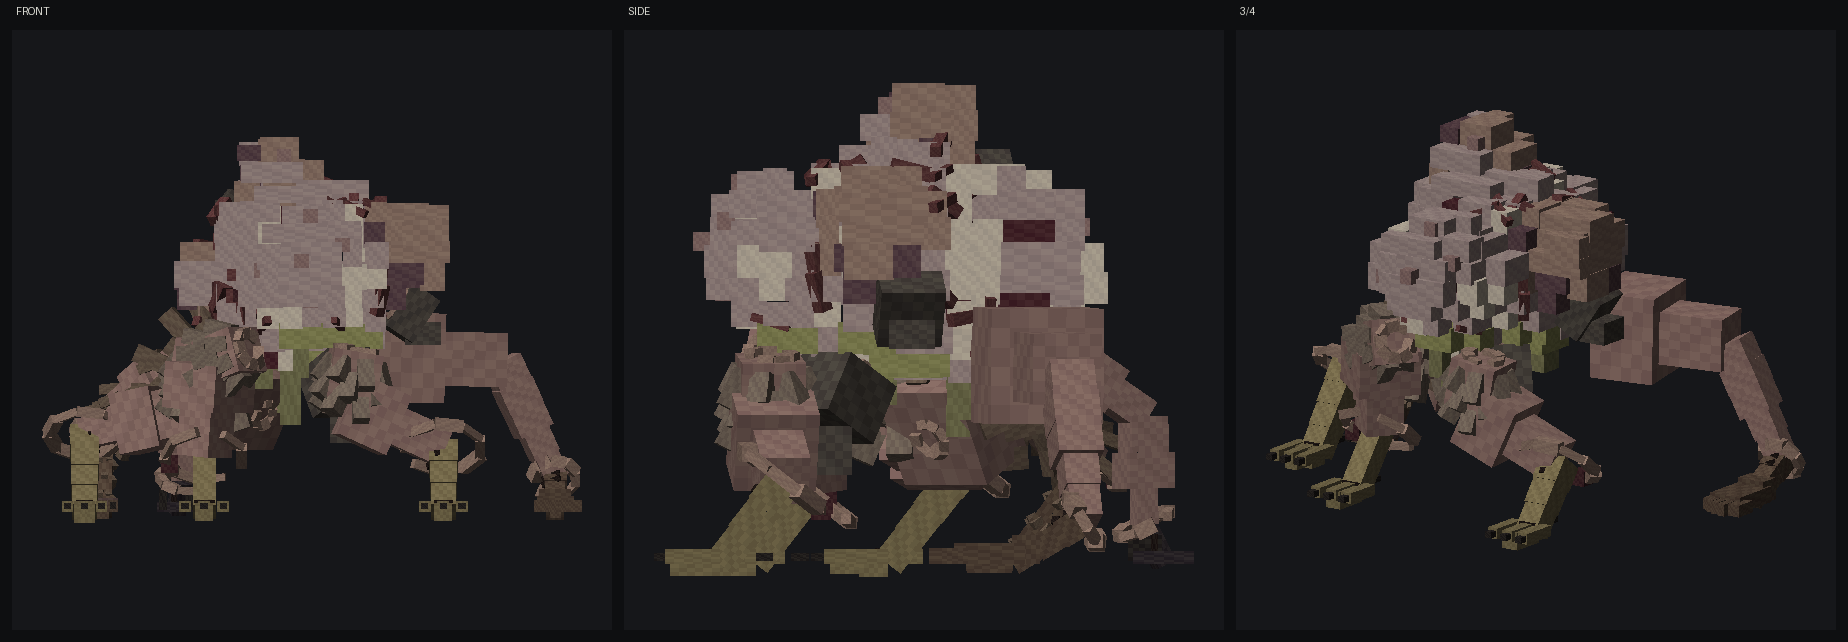
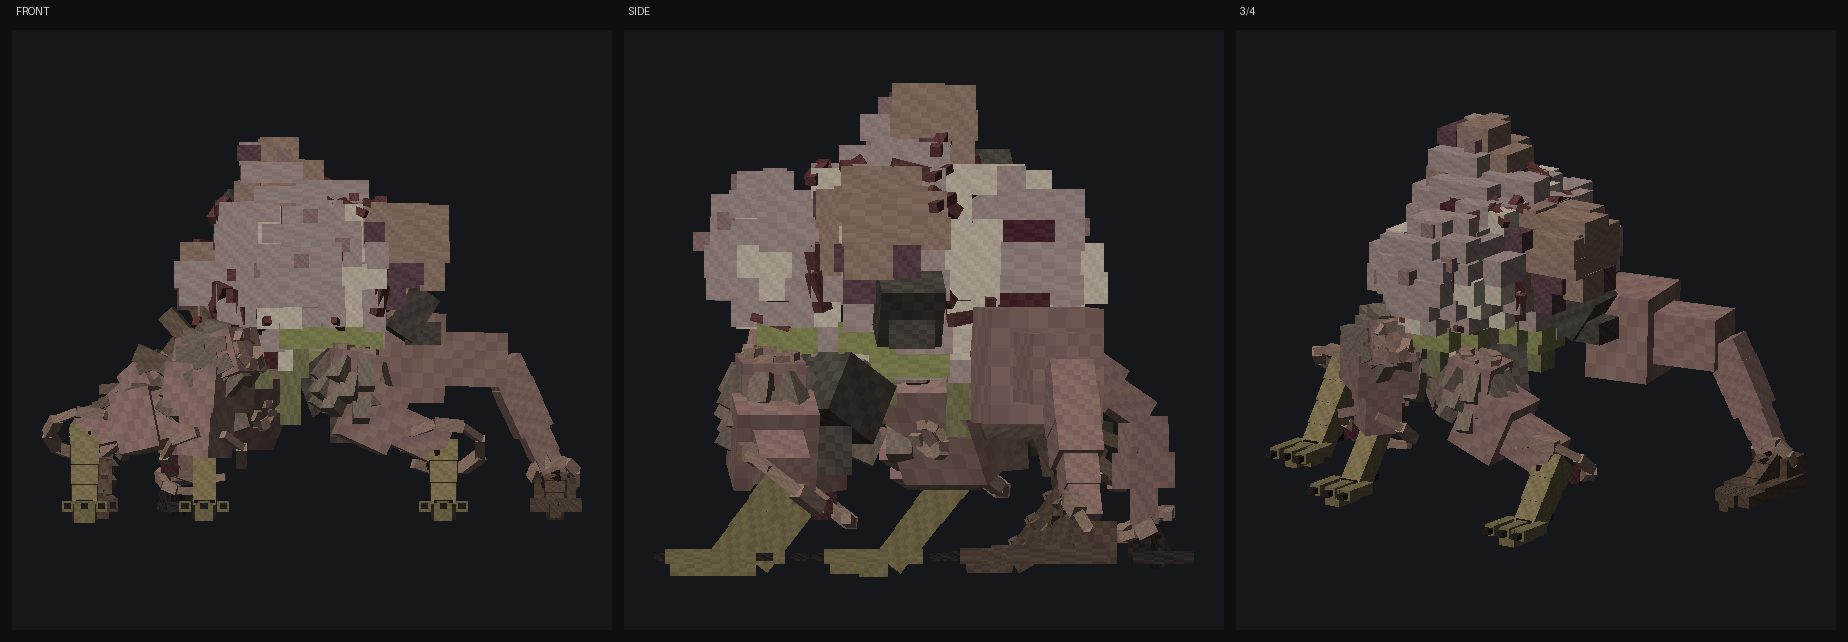
异变缝合兽：人足的跟找回来了——整只脚原本画在踝的前面
用户看 bbmodel 直接指出腿骨位置不对。量了一下确实是硬错：链上只有 [踝, 跖球, 趾尖]，
渲染又把 j[-2]（其实是跖球）当成跟来用，于是脚底从跖球起步一路铺到趾尖之外。那条腿
踝的地面投影在 z=+1.75、地面反力作用点在 z=0，而画出来的脚底是 −2.95…−7.55——连受力
点都没盖住，看上去像用前脚掌的位置支着一根杆。

跟不在链上是对的：跟骨和掌骨是**同一块刚体**，不是一节，硬塞进链里会多出一个假关节。
所以另开 foot_heel() 单独取回来（跖行专有，其余站姿返回 None），渲染补两件：

· 跟到跖球的整片脚底，长由解剖定、宽取"解剖宽"与"压强要求的宽"的大者
· 踝正下方的跗骨块——没有它，踝和脚底之间隔着一段空的，腿像插在脚上不是站在脚上

五趾也跟着改成从跖球往前长到趾尖那个关节（原来按 pad 长度算，只伸出去一半）。修完踝
落在跟→跖球的 25% 处，真人也是这个位置。

自检加 ⑬ 跖行的脚必须托住踝（踝的地面投影落在跟与跖球之间）——"跖行"这个词的定义就是
整片脚底承重、踝压在脚底上方。12 只兽十三项全过（547–722 块），check_limbs 九项全过。

单件复看用 renders/beast/render_HumanLeg_three_view.png：并排的腿谱里两条跖行腿在侧视
会叠在一起，看不出脚的剖面——这类错只有单件三视图才露得出来。

Model: claude-opus-5

diff --git a/scripts/models/stitched_beast/gen_beast.py b/scripts/models/stitched_beast/gen_beast.py
@@ -146,25 +146,39 @@ def part_foot(rig: Rig, lb: LB.Limb) -> int:
             box(bone, "claw", c + np.array([0.0, 0.0, -run * 0.55]),
                 (hw * 0.16, 0.35, run * 0.22), "claw")
     elif sk.foot == "human":
-        # 人足：整片脚底 + 向后支出来的脚跟 + **五枚趾，拇趾最粗、往小趾递减**。
+        # 人足：**跟 → 跖球 一整片贴地的脚底** + 托住踝的跗骨块 + 五枚趾。
         #
-        # "我好像没看见人腿"——它一直在（seed 5 的左后腿就是），只是读不出来。这个
-        # 尺度上人腿的辨识全在脚上：跟骨支出去那一块 + 五枚不等长的趾。三枚等大的趾
-        # 是"某种爪"，五枚递减的趾才是人。趾长按真实比例递减（拇趾最粗但不最长，
-        # 第二趾最长），这几个数是量的不是编的。
-        heel, sole = j[-2], j[-1]
-        mid = 0.5 * (heel + sole)
-        run = max(float(np.linalg.norm((sole - heel)[[0, 2]])), 1.0)
-        box(bone, "sole", (mid[0], 0.8, mid[2]), (hw * 0.72, 0.8, run * 0.5 + hl * 0.3),
-            "hide")
-        box(prev, "heel", (heel[0], 1.1, heel[2] + run * 0.28),
-            (hw * 0.62, 1.1, run * 0.30), "hide")
-        # (横向位置, 趾粗, 趾长)：拇趾在内侧最粗，第二趾最长
-        for off, wide, long in ((-0.78, 0.26, 0.34), (-0.32, 0.17, 0.42),
-                                (0.06, 0.16, 0.38), (0.40, 0.15, 0.32),
-                                (0.70, 0.13, 0.25)):
-            box(bone, "toe", (sole[0] + off * hw, 0.6, sole[2] - hl * long),
-                (hw * wide, 0.6, hl * long * 1.15), "hide")
+        # 上一版把整只脚画在了踝的**前面**：链上只有 [踝, 跖球, 趾尖]，没有跟，代码
+        # 又把 `j[-2]` 当成跟来用，于是脚底从跖球起步、一路铺到趾尖之外。实测那条腿
+        # 踝的地面投影在 z=+1.75、地面反力作用点在 z=0，而画出来的脚底是 −2.95…−7.55
+        # ——连受力点都没盖住，看上去像"用前脚掌的位置支着一根杆"。跟不在链上是对的
+        # （跟骨和掌骨是同一块刚体，不是一节），但渲染必须另外把它取回来。
+        ankle, ball, tip = j[-3], j[-2], j[-1]
+        heel = lb.heel if lb.heel is not None else ball
+        fwd = (ball - heel) * np.array([1.0, 0.0, 1.0])
+        run = max(float(np.linalg.norm(fwd)), 1.0)
+        u = fwd / run
+        # 脚底的**长**由解剖定（跟到跖球），**宽**取"解剖宽"与"压强要求的宽"中的大者
+        # ——人足本来就比踩住所需的面积大，多出来的那部分只是压强更低而已。
+        wide = max(hw, run * 0.19)
+        mid = 0.5 * (heel + ball)
+        box(bone, "sole", (mid[0], 0.7, mid[2]), (wide, 0.7, run * 0.5), "hide")
+        # 跗骨块：踝正下方那一坨，把胫骨接到脚底上。没有它，踝和脚底之间隔着一段空的，
+        # 整条腿看着像插在脚上而不是站在脚上。
+        back = 0.5 * (heel + ankle)
+        top = max(float(ankle[1]), 1.4)
+        box(prev, "tarsal", (back[0], top * 0.5, back[2]),
+            (wide * 0.82, top * 0.5,
+             float(np.linalg.norm((ankle - heel)[[0, 2]])) * 0.5 + wide * 0.30), "hide")
+        # 五趾：(横向位置, 趾粗, 趾长占比)。拇趾在内侧最粗，**第二趾最长**（顶到趾尖
+        # 那个关节），往小趾递减——这几个比例是量的不是编的。
+        toe_run = max(float(np.linalg.norm((tip - ball)[[0, 2]])), 1.0)
+        for off, thick, frac in ((-0.78, 0.26, 0.81), (-0.32, 0.17, 1.00),
+                                 (0.06, 0.16, 0.90), (0.40, 0.15, 0.76),
+                                 (0.70, 0.13, 0.60)):
+            c = ball + u * (toe_run * frac * 0.5)
+            box(bone, "toe", (c[0] + off * wide, 0.6, c[2]),
+                (wide * thick, 0.6, toe_run * frac * 0.5), "hide")
     elif sk.foot == "bird":
         # 禽爪：三前一后。后趾是禽腿最好认的特征，别省
         run = max(float(np.linalg.norm((tip - ball)[[0, 2]])), 1.0)
@@ -560,6 +574,23 @@ def check(rig: Rig, gait, limbs: dict[str, LB.Limb]) -> list[str]:
                     bad.append(f"{lb.name} 第 {i}/{i + 1} 节交界处粗细跳了 {jump:.2f} px"
                                f"——关节两边必须是同一个包络")
 
+    # ⑬ 跖行的脚必须**托住踝**：踝的地面投影落在跟与跖球之间。"跖行"这个词的定义就是
+    #    整片脚底承重、踝压在脚底上方；踝投影跑到脚底外面，那条腿就是踩着前脚掌站的。
+    #    上一版实测：踝投影 z=+1.75，而脚底从 −2.95 起——整只脚画在了踝的前面。
+    for lb in limbs.values():
+        if not lb.bearing or lb.gene.stance != "plantigrade":
+            continue
+        if lb.heel is None:
+            bad.append(f"{lb.name} 是跖行却没有跟——脚跟不在链上，得单独取（foot_heel）")
+            continue
+        ankle, ball = lb.joints[-3], lb.joints[-2]
+        seg = (ball - lb.heel)[[0, 2]]
+        L2 = float(seg @ seg)
+        s = float((ankle - lb.heel)[[0, 2]] @ seg) / max(L2, 1e-9)
+        if not -0.02 <= s <= 1.02:
+            bad.append(f"{lb.name} 踝的地面投影落在脚底之外（跟→跖球的 {s:+.2f} 处）"
+                       f"——跖行必须整片脚底托住踝")
+
     # ⑫ 裂口方向：裂缝一律**垂直于把它拉开的方向**，所以两族互相垂直。
     #    关节的皮被沿肢轴拉 ⇒ 横裂；蹄甲失水沿周向收缩 ⇒ 纵裂。撒歪了这里红。
     for lb in limbs.values():
@@ -621,7 +652,7 @@ def main() -> int:
             print(f"   {x}")
         return 1
     print("✓ 触地 / 不埋进核心 / 根部不互穿 / 粗细单调 / 载荷守恒 / 不陷地 / "
-          "骨骼 / 站高 / 不对称 / 不露骨 / 裂口方向 / 块数 全部通过")
+          "骨骼 / 站高 / 不对称 / 不露骨 / 脚托住踝 / 裂口方向 / 块数 全部通过")
     if not args.check:
         p = rig.save(OUT_DIR / f"StitchedBeast_{args.seed}.bbmodel",
                      f"StitchedBeast_{args.seed}")

diff --git a/scripts/models/stitched_beast/limbs.py b/scripts/models/stitched_beast/limbs.py
@@ -409,6 +409,21 @@ def foot_chain(stance: str, contact: np.ndarray, lens: tuple[float, ...],
     return [ankle, ball, ball + FWD * toes]
 
 
+def foot_heel(stance: str, contact: np.ndarray,
+              lens: tuple[float, ...]) -> np.ndarray | None:
+    """跖行足向后支出去的**跟**在哪儿。
+
+    跟不在 `foot_chain` 的链上，因为它不是一节——跟骨和掌骨是**同一块刚体**，只是
+    往踝的后下方支出一块。链上没有它，渲染就得另外拿；上一版没拿，于是整只脚画在了
+    踝的前面：踝的地面投影在 z=+1.75，而画出来的脚底从 −2.95 起步，连地面反力作用点
+    （z=0）都没盖住。看上去就是"用脚前掌的位置支着一根杆"。
+    """
+    if stance != "plantigrade":
+        return None
+    meta = lens[0]
+    return contact - FWD * (meta * 0.5)
+
+
 def hang_pose(sock: C.Socket, segs: tuple[float, ...], radii: list[float],
               *, jointed: bool) -> list[np.ndarray]:
     """不承重的肢：从挂载点沿法向长出来，然后被自己的重量拽下去。
@@ -548,6 +563,7 @@ class Limb:
     root_need: float                # 根部**需要**的半径（未被 girth 钳过），自检用
     pad: tuple[float, float]        # 脚掌 (半宽 px, 半长 px)；不承重为 (0,0)
     node_r: list[float]             # 每个**关节处**的包络半径 px（len = len(joints)）
+    heel: np.ndarray | None = None  # 跖行足的跟（不在链上，见 foot_heel）；其余为 None
 
     @property
     def name(self) -> str:
@@ -648,6 +664,7 @@ def solve_limb(gene: GN.LimbGene, sock: C.Socket, *, load: float = 0.0,
             if float(np.linalg.norm(paw[0] - hip)) <= 0.97 * span:
                 break
         ankle = paw[0]
+        heel = foot_heel(gene.stance, ground, segs[nleg:])
 
         # 脚掌：面积 = 载荷 / 地面承载力。踩不住就陷进灰里。**这一步得在算粗细之前**
         # ——脚掌的长度就是脚里那几根骨头的等效力臂（见下面 eff）。
@@ -725,6 +742,7 @@ def solve_limb(gene: GN.LimbGene, sock: C.Socket, *, load: float = 0.0,
         muscle = [0.0] * n
         joints = hang_pose(sock, segs, radius, jointed=not boneless)
         pad = (0.0, 0.0)
+        heel = None
 
     # 材质分界是**算出来的**：一节的横截面里，本体长上去的新肉（肌腹）与供体原有的
     # 组织（骨 + 只是穿过去的腱）谁占多数，外面就露谁。近端全是新长的肌腹 ⇒ 一片本体
@@ -774,7 +792,7 @@ def solve_limb(gene: GN.LimbGene, sock: C.Socket, *, load: float = 0.0,
     weld_r = math.sqrt((bone_r[0] * PX) ** 2 + load / (math.pi * SIGMA_SOFT)) / PX
     weld_r = max(weld_r, 0.6)
     return Limb(gene, sock, load, joints, radius, bone_r, muscle, arms, ankle,
-                mats, forced, weld_r, need, pad, node_r)
+                mats, forced, weld_r, need, pad, node_r, heel)
 
 
 def build(seed: int, *, socks: dict[str, C.Socket] | None = None
